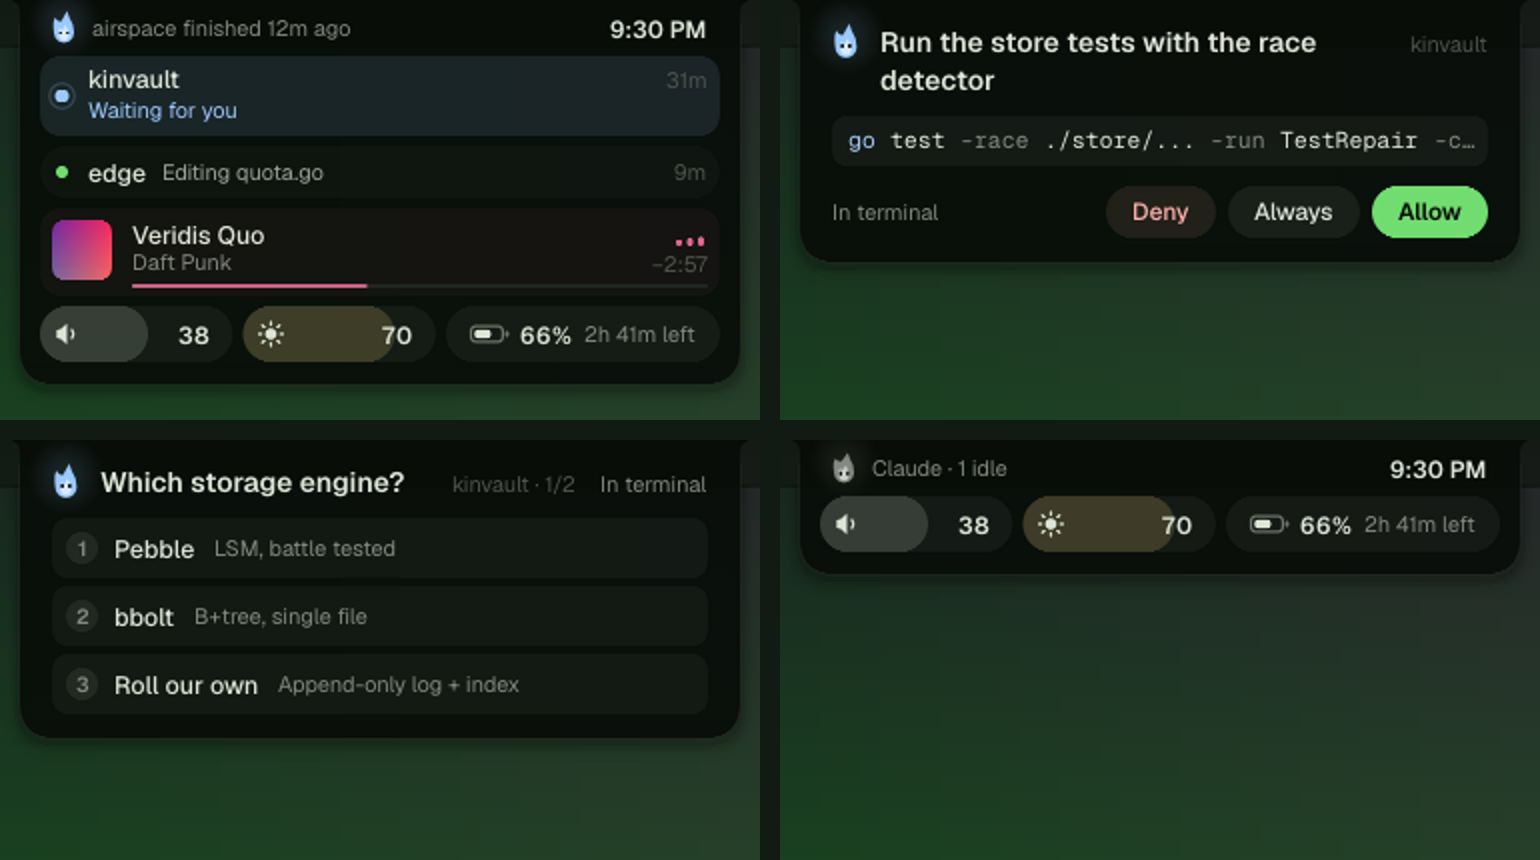
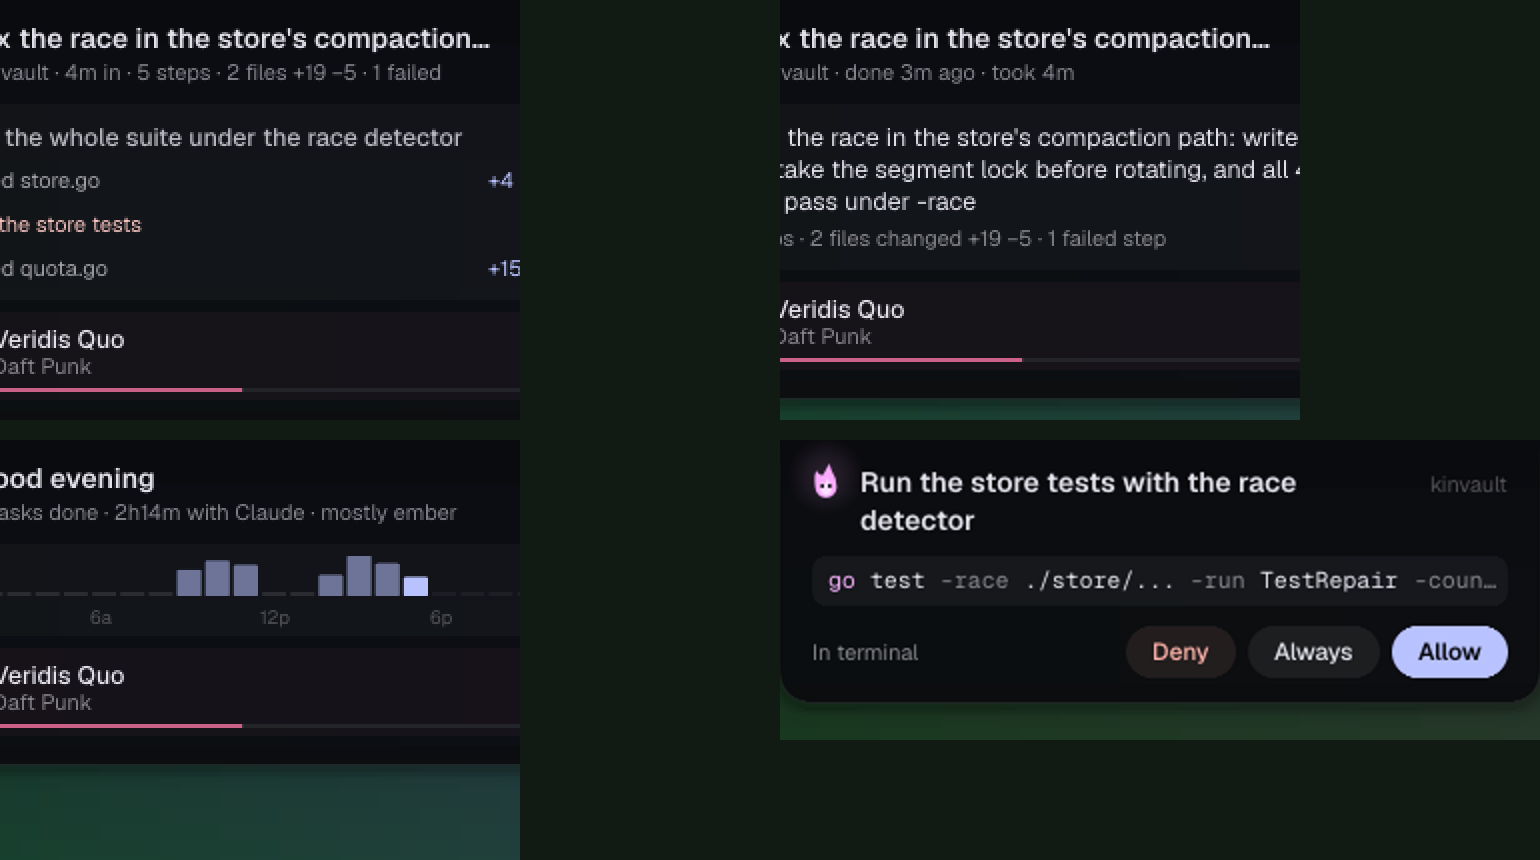
island: the card is a brief (headline = the task, live timeline with failures, recap, waiting, the day); PostToolUseFailure hook; readme and renders

diff --git a/island/brief_preview_test.go b/island/brief_preview_test.go
@@ -1,0 +1,124 @@
+package island
+
+import (
+	"image"
+	"image/color"
+	"image/draw"
+	"image/png"
+	"os"
+	"path/filepath"
+	"testing"
+	"time"
+)
+
+// EMBER_PREVIEW=dir go test -run PreviewBrief ./island: the card in each of its moods.
+func TestPreviewBrief(t *testing.T) {
+	dir := os.Getenv("EMBER_PREVIEW")
+	if dir == "" {
+		t.Skip("set EMBER_PREVIEW")
+	}
+	cover := image.NewRGBA(image.Rect(0, 0, 64, 64))
+	for y := 0; y < 64; y++ {
+		for x := 0; x < 64; x++ {
+			cover.Set(x, y, color.NRGBA{uint8(120 + x*2), uint8(40 + y), uint8(160 - x), 255})
+		}
+	}
+	music := func(a *app, clock time.Time) {
+		a.ui.track = &Track{Player: "org.mpris.MediaPlayer2.YoutubeMusic", Title: "Veridis Quo", Artist: "Daft Punk", Playing: true, Length: 5 * time.Minute, Position: 2 * time.Minute, PosAt: clock}
+		a.ui.art = &albumArt{small: scaleSquare(cover, 18), large: scaleSquare(cover, 60), row: scaleSquare(cover, 30)}
+		a.ui.art.accent = accentOf(a.ui.art.large)
+	}
+	work := func(a *app, clock *time.Time, id, project string, fail bool) {
+		hookAt(a, "UserPromptSubmit", id, project, map[string]any{"prompt": map[string]string{
+			"kinvault": "fix the race in the store's compaction path and make the tests pass under -race",
+			"edge":     "add a hint ladder to the daily problem flow",
+			"airspace": "draw the radar view for parallel sessions"}[project]})
+		steps := []map[string]any{
+			{"tool_name": "Read", "tool_input": map[string]any{"file_path": "/x/store.go"}},
+			{"tool_name": "Edit", "tool_input": map[string]any{"file_path": "/x/quota.go", "old_string": "a\nb\nc", "new_string": "a\nb\nc\nd\ne\nf\ng\nh\ni\nj\nk\nl\nm\nn\no"}},
+			{"tool_name": "Bash", "tool_input": map[string]any{"command": "go test ./store/...", "description": "Run the store tests"}},
+			{"tool_name": "Edit", "tool_input": map[string]any{"file_path": "/x/store.go", "old_string": "x\ny", "new_string": "x\ny\nz\nw"}},
+			{"tool_name": "Bash", "tool_input": map[string]any{"command": "go test -race ./...", "description": "Run the whole suite under the race detector"}},
+		}
+		for i, st := range steps {
+			*clock = clock.Add(47 * time.Second)
+			hookAt(a, "PreToolUse", id, project, st)
+			if i < len(steps)-1 {
+				ev := "PostToolUse"
+				if fail && i == 2 {
+					ev = "PostToolUseFailure"
+				}
+				hookAt(a, ev, id, project, map[string]any{"tool_name": st["tool_name"]})
+			}
+		}
+		*clock = clock.Add(12 * time.Second)
+	}
+	const W, H = 520, 300
+	type shot struct {
+		name string
+		set  func(a *app, clock *time.Time)
+	}
+	shots := []shot{
+		{"work", func(a *app, c *time.Time) {
+			work(a, c, "s", "kinvault", true)
+			a.ui.sessions["s"].Title = "Quota enforcement"
+			music(a, *c)
+		}},
+		{"work-busy", func(a *app, c *time.Time) {
+			work(a, c, "o", "airspace", false)
+			hookAt(a, "Stop", "o", "airspace", map[string]any{"last_assistant_message": "Added the radar view; 18 tests pass."})
+			*c = c.Add(4 * time.Minute)
+			work(a, c, "e", "edge", false)
+			work(a, c, "s", "kinvault", true)
+			music(a, *c)
+		}},
+		{"recap", func(a *app, c *time.Time) {
+			work(a, c, "s", "kinvault", true)
+			*c = c.Add(40 * time.Second)
+			hookAt(a, "Stop", "s", "kinvault", map[string]any{"last_assistant_message": "Done.\n\nFixed the race in the store's compaction path: writers now take the segment lock before rotating, and all 42 tests pass under -race."})
+			*c = c.Add(3 * time.Minute)
+			music(a, *c)
+		}},
+		{"day", func(a *app, c *time.Time) {
+			for h, n := range map[int]int{9: 14, 10: 30, 11: 22, 14: 8, 15: 40, 16: 25, 17: 6} {
+				a.ui.day.Hours[h] = n
+			}
+			a.ui.day.Tasks, a.ui.day.Busy = 7, 2*time.Hour+14*time.Minute
+			a.ui.day.Projects = map[string]int{"ember": 4, "kinvault": 2, "edge": 1}
+			music(a, *c)
+		}},
+		{"wait", func(a *app, c *time.Time) {
+			work(a, c, "s", "kinvault", false)
+			hookAt(a, "Notification", "s", "kinvault", map[string]any{"notification_type": "permission_prompt"})
+		}},
+	}
+	sheet := image.NewRGBA(image.Rect(0, 0, W, H*len(shots)))
+	for i, sh := range shots {
+		clock := time.Date(2026, 10, 13, 17, 20, 0, 0, time.Local)
+		a := newTestApp(&clock)
+		a.ui.start, a.ui.bounceAt = clock, clock.Add(-time.Hour)
+		sh.set(a, &clock)
+		a.ui.pinned = true
+		for f := 0; f < 120; f++ {
+			clock = clock.Add(time.Second / 60)
+			a.ui.renderDamage()
+		}
+		r := image.Rect(0, H*i, W, H*(i+1))
+		for y := r.Min.Y; y < r.Max.Y; y++ {
+			for x := 0; x < W; x++ {
+				sheet.Set(x, y, color.NRGBA{uint8(20 + x/30), uint8(38 + (y-r.Min.Y)/8), uint8(40 + x/20), 255})
+			}
+		}
+		draw.Draw(sheet, image.Rect(0, H*i, W, H*i+22), image.NewUniform(color.NRGBA{0x0f, 0x15, 0x0e, 200}), image.Point{}, draw.Over)
+		draw.Draw(sheet, r, a.ui.cv.img, image.Pt((440-W)/2, 0), draw.Over)
+	}
+	big := image.NewRGBA(image.Rect(0, 0, W*2, sheet.Rect.Dy()*2))
+	for y := 0; y < big.Rect.Dy(); y++ {
+		for x := 0; x < big.Rect.Dx(); x++ {
+			big.Set(x, y, sheet.At(x/2, y/2))
+		}
+	}
+	f, _ := os.Create(filepath.Join(dir, "brief.png"))
+	png.Encode(f, big)
+	f.Close()
+}

diff --git a/island/brief_test.go b/island/brief_test.go
@@ -42,7 +42,7 @@ func TestBriefWhileWorking(t *testing.T) {
 	hookAt(a, "PreToolUse", "s", "ember", map[string]any{"tool_name": "Read", "tool_input": map[string]any{"file_path": "/x/store.go"}})
 
 	b := a.ui.brief()
-	if b.mode != "work" || b.head != "ember · Reading store.go" && b.head != "ember is reading store.go" {
+	if b.mode != "work" || b.head != "ember is reading store.go" { // no informative prompt: the step speaks
 		t.Fatalf("mode %s, head %q", b.mode, b.head)
 	}
 	for _, want := range []string{"2m in", "3 steps", "1 file +3 −1", "1 failed"} {
@@ -81,7 +81,7 @@ func TestBriefRecapThenDay(t *testing.T) {
 	clock = clock.Add(9 * time.Minute)
 	hookAt(a, "Stop", "s", "kinvault", map[string]any{"last_assistant_message": "Let me summarise.\nFixed the race in store.go; all 42 tests pass."})
 	b := a.ui.brief()
-	if b.mode != "recap" || b.head != "kinvault is done" || !strings.Contains(b.sub, "took 9m") {
+	if b.mode != "recap" || b.head != "kinvault is done" || b.sub != "Done just now · took 9m" {
 		t.Fatalf("%+v", b)
 	}
 	r := a.ui.sessions["s"].Recap
@@ -95,6 +95,22 @@ func TestBriefRecapThenDay(t *testing.T) {
 	}
 	if a.ui.day.Hours[15] != 1 {
 		t.Fatalf("the 3 pm hour saw one call: %v", a.ui.day.Hours)
+	}
+}
+
+// What you asked is the headline, when it says something.
+func TestBriefHeadlineIsTheTask(t *testing.T) {
+	clock := time.Date(2026, 10, 13, 15, 0, 0, 0, time.Local)
+	a := newTestApp(&clock)
+	hookAt(a, "UserPromptSubmit", "s", "kinvault", map[string]any{"prompt": "fix the race in compaction. then run the tests"})
+	hookAt(a, "PreToolUse", "s", "kinvault", map[string]any{"tool_name": "Read", "tool_input": map[string]any{"file_path": "/x/a.go"}})
+	if b := a.ui.brief(); b.head != "Fix the race in compaction" || !strings.HasPrefix(b.sub, "kinvault · ") {
+		t.Fatalf("%q / %q", b.head, b.sub)
+	}
+	hookAt(a, "UserPromptSubmit", "s", "kinvault", map[string]any{"prompt": "yes do it"})
+	a.ui.sessions["s"].Title = "Compaction race"
+	if b := a.ui.brief(); b.head != "Compaction race" {
+		t.Fatalf("a terse prompt yields to Claude's topic: %q", b.head)
 	}
 }
 

diff --git a/island/brief.go b/island/brief.go
@@ -58,19 +58,26 @@ func (u *UI) brief() brief {
 	switch {
 	case len(ss) > 0 && ss[0].State == "wait":
 		s := ss[0]
-		b = brief{mode: "wait", s: s, mood: moodWait, head: s.Project + " is waiting for you",
-			sub: "It's asking in the terminal · " + ago(now.Sub(s.Seen))}
+		sub := "It's asking in the terminal · " + ago(now.Sub(s.Seen))
+		if t := s.task(); t != "" {
+			sub = t + " · " + ago(now.Sub(s.Seen))
+		}
+		b = brief{mode: "wait", s: s, mood: moodWait, head: s.Project + " needs you", sub: sub}
 	case len(working) > 0:
 		s := working[0]
 		label := s.Label
 		if label == "" {
 			label = "Thinking"
 		}
-		head := s.Project + " · " + label
-		if g, ok := gerund(label); ok {
-			head = s.Project + " is " + g
+		// the headline is the task, in words; the timeline below says how it's going
+		head, sub := s.task(), s.Project+" · "+turnFacts(s, now)
+		if head == "" {
+			head, sub = s.Project+" · "+label, turnFacts(s, now)
+			if g, ok := gerund(label); ok {
+				head = s.Project + " is " + g
+			}
 		}
-		b = brief{mode: "work", s: s, mood: moodWork, head: head, sub: turnFacts(s, now)}
+		b = brief{mode: "work", s: s, mood: moodWork, head: head, sub: strings.TrimSuffix(sub, " · ")}
 	default:
 		var last *Session
 		for _, s := range ss {
@@ -84,11 +91,16 @@ func (u *UI) brief() brief {
 			if r.Failures > 0 && strings.Contains(strings.ToLower(r.Summary), "fail") {
 				m = moodNudge
 			}
-			sub := "Finished " + ago(now.Sub(r.At))
+			sub := last.Project + " · done " + ago(now.Sub(r.At))
 			if r.Took > 0 {
 				sub += " · took " + mins(r.Took)
 			}
-			b = brief{mode: "recap", s: last, mood: m, head: last.Project + " is done", sub: sub}
+			head := last.task()
+			if head == "" {
+				head, sub = last.Project+" is done", strings.TrimPrefix(sub, last.Project+" · d")
+				sub = "D" + sub
+			}
+			b = brief{mode: "recap", s: last, mood: m, head: head, sub: sub}
 		} else {
 			b = brief{mode: "day", mood: moodIdle, head: greeting(now), sub: u.dayFacts()}
 		}

diff --git a/island/story.go b/island/story.go
@@ -231,3 +231,17 @@ func gerund(label string) (string, bool) {
 	}
 	return g + " " + rest, true
 }
+
+// task is what a session is about, in words, for the headline: what you
+// asked this turn if that says something ("yes", "go on" don't), else the
+// topic Claude gave the session, else nothing.
+func (s *Session) task() string {
+	p := strings.Join(strings.Fields(s.Prompt), " ")
+	if words := strings.Fields(p); len(words) >= 4 && len(p) >= 18 && !strings.HasPrefix(p, "/") {
+		if i := strings.IndexAny(p, ".?!"); i >= 18 { // the first sentence is enough
+			p = p[:i]
+		}
+		return strings.ToUpper(p[:1]) + p[1:]
+	}
+	return s.Title
+}

diff --git a/island/server.go b/island/server.go
@@ -48,7 +48,8 @@ type hookInput struct {
 	Suggestions json.RawMessage `json:"permission_suggestions"`
 	NotifyType  string          `json:"notification_type"`
 	LastMessage string          `json:"last_assistant_message"`
-	Error       string          `json:"error"` // StopFailure
+	Error       string          `json:"error"`  // StopFailure
+	Prompt      string          `json:"prompt"` // UserPromptSubmit
 }
 
 type server struct {

diff --git a/island/ui.go b/island/ui.go
@@ -45,6 +45,7 @@ type Card struct {
 type Session struct {
 	ID, Project, State, Label string // State: work | wait | idle
 	Title                     string // the topic Claude put in its terminal's title
+	Prompt                    string // what you asked this turn, first line
 	Plus, Minus               int
 	Agents                    int // subagents running
 	Since, Seen               time.Time

diff --git a/island/app.go b/island/app.go
@@ -551,6 +551,7 @@ func (a *app) hook(m inMsg, answer chan<- json.RawMessage) string {
 	case "UserPromptSubmit":
 		s.State, s.Label, s.Plus, s.Minus, s.Since, s.StepAt = "work", "Thinking", 0, 0, now, now
 		s.Turn = Turn{}
+		s.Prompt = firstLine(strings.TrimSpace(in.Prompt))
 		a.ui.mind.kick(now, 0.25, 0.05)
 		a.ui.mind.novel["claude"] = now
 	case "SubagentStart":

diff --git a/README.md b/README.md
@@ -6,11 +6,11 @@ playing, volume and brightness as you change them, the charger, your headphones,
 
 It is always one pill. When two things are going on, the second rides along as a small satellite at the pill's end,
 behind a hairline: a tiny flickering flame while Claude works, the spinning cover while a song plays. Click the
-satellite to swap it in. Hover the pill and a compact card drops down. It is a live stack, not a settings window.
+satellite to swap it in. Hover the pill and a card drops down. It's a brief on what your agents are doing, not a settings window.
 
 ![The pill's states](docs/pills.png)
 
-![The card: the live stack, a permission request, a question, a quiet desk](docs/cards.png)
+![The card: working, just finished, a quiet day, a request](docs/cards.png)
 
 It is one native Go binary. It talks the Wayland protocol directly and draws in software, with no toolkit and no
 GPU. It wakes only when something changes. Measured on a 2018 laptop, it uses about 9 MB of private memory and about 1%
@@ -42,24 +42,23 @@ previous, play/pause and next. Scroll on it to change the volume. The card takes
 - Screenshots, with a preview. Click it to open the file.
 - A dot while your screen is being shared or recorded.
 
-**System chips.** Volume, brightness and battery share one slim row at the bottom of the card. The volume and
-brightness chips are sliders too: drag or scroll them, or click the speaker to mute. The battery chip shows time to
-empty or full.
-
-**The clock**, when nothing else is going on. And [edge](https://github.com/Tejas242/edge)'s practice status, if
-you run it.
-
-**The card** has no tabs and no pages.
-- **The strip.** One line at the top says only what the rows don't ("3 idle · airspace finished 12m ago"), with the
-  time beside it.
-- **The rows.** One dense row per thing going on, most important first:
-  - **Sessions.** A session waiting on you comes first, then working sessions. The first gets two lines with a
-    sparkline of its last ten minutes of activity; any others get one line each.
-  - **Music and edge** follow, the one you reach for in this situation first.
-  - **System chips** close the stack.
-- **Controls appear where your pointer is.** Hover the music row and the controls cross-fade in where the equaliser
-  was. The song's progress runs along the row's foot and drags.
-- **Compact.** A typical card is about 160 px tall.
+**The card is a brief, not a window.** You glance at the island for two seconds and ask one of three things: does
+anything need me, what is it doing and is it going well, what happened while I wasn't looking. The card answers
+whichever is true right now, and nothing else. It has no tabs and no settings: volume and brightness speak up in the
+pill when they change, and that's enough.
+- **Headline.** The task in words: what you asked, if your prompt said something ("yes, do it" doesn't), else the
+  topic Claude gave the session. Under it, the facts: *kinvault · 4m in · 9 steps · 3 files +58 −12 · 1 failed*.
+  Click it to jump to that terminal.
+- **Working.** A live timeline of the turn, newest first, on a thin rail. The current step pulses and counts its
+  seconds. Earlier steps say what they changed (+15 −3) and when. A step that failed says so in red, because Claude
+  Code reports tool failures to Ember.
+- **Just finished.** A recap: Claude's most informative sentence, then what the turn amounted to (steps, files
+  changed, the diff, failures).
+- **Waiting.** Who's asking, about what, and a button that takes you there.
+- **Quiet.** A greeting that knows the time, your day in one line (*7 tasks done · 2h 14m with Claude · mostly
+  ember*), and the day hour by hour.
+- **Then one line each** for other sessions (what they're doing, or what they just did), the song with its controls
+  under your pointer, and edge when it has something for you.
 
 **Requests** use Claude's own words as the title ("Run the store tests with the race detector") and show the command
 once, syntax-tinted, with a line along the bottom that drains while the request waits. Questions have numbered
@@ -154,11 +153,11 @@ layer-rule {
 | --- | --- |
 | Hover the pill | Drops the card. Leave and it folds back |
 | Click the pill | Opens the card. On a request or a "Done", jumps to that terminal |
-| Click a moment | Screenshot: opens it. Volume, brightness, battery: opens the card |
+| Click a moment | Screenshot: opens it. Others open the card |
 | Click the satellite | Swaps the second activity (the cover, the little flame) into the pill |
 | Scroll on the pill | Switches what the pill shows |
-| Drag a slider or the seek bar | Follows your pointer, even past the island's edge. A seek happens on release |
-| Scroll on a chip or the music row | Changes that level (the player's own volume on the music row) |
+| Drag the song's progress line | Follows your pointer, even past the island's edge. The seek happens on release |
+| Scroll on the music row | Changes the player's volume |
 | Middle-click | Play / pause |
 | Right-click | Dismisses a moment or the card |
 
